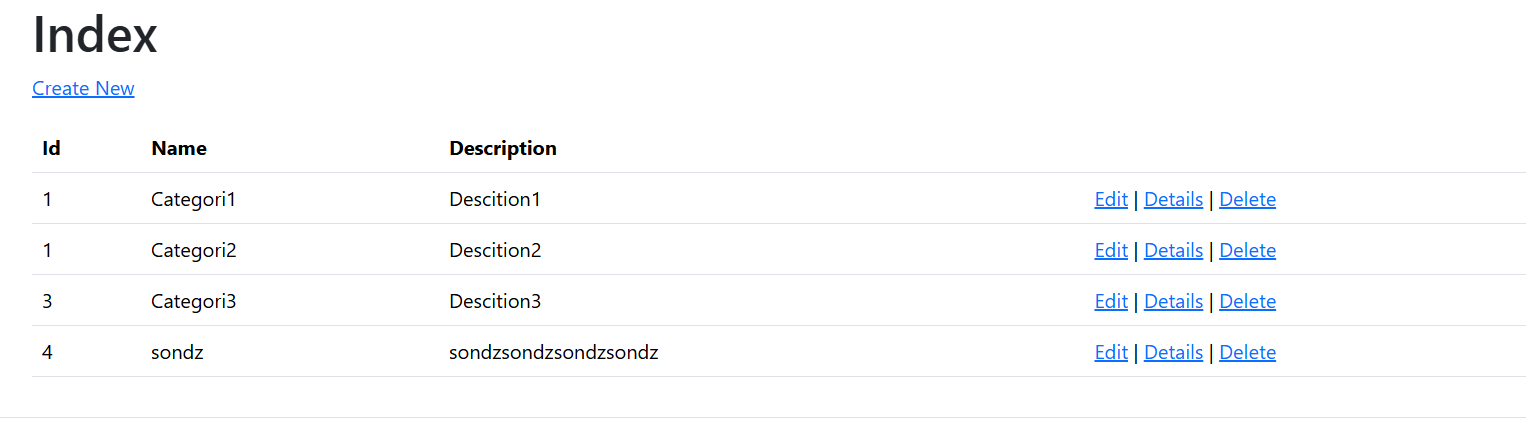
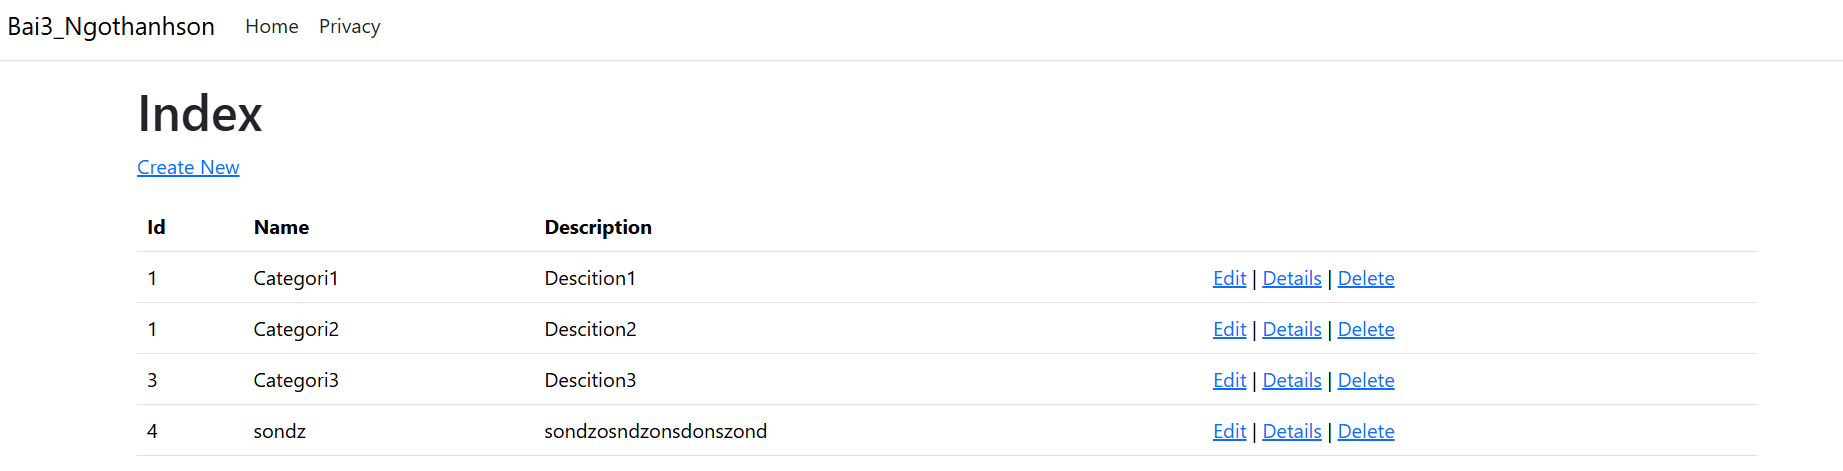
updated create img

diff --git a/Bai3-Ngothanhson/obj/Debug/net10.0/Bai3-Ngothanhson.AssemblyInfo.cs b/Bai3-Ngothanhson/obj/Debug/net10.0/Bai3-Ngothanhson.AssemblyInfo.cs
@@ -1,6 +1,7 @@
 //------------------------------------------------------------------------------
 // <auto-generated>
 //     This code was generated by a tool.
+//     Runtime Version:4.0.30319.42000
 //
 //     Changes to this file may cause incorrect behavior and will be lost if
 //     the code is regenerated.
@@ -13,7 +14,7 @@ using System.Reflection;
 [assembly: System.Reflection.AssemblyCompanyAttribute("Bai3-Ngothanhson")]
 [assembly: System.Reflection.AssemblyConfigurationAttribute("Debug")]
 [assembly: System.Reflection.AssemblyFileVersionAttribute("1.0.0.0")]
-[assembly: System.Reflection.AssemblyInformationalVersionAttribute("1.0.0+12f130fa6f212ff7fdab706524602682eceba853")]
+[assembly: System.Reflection.AssemblyInformationalVersionAttribute("1.0.0+1fcd17c7c581cb8a0ab1fe97a7eac1216fe90c93")]
 [assembly: System.Reflection.AssemblyProductAttribute("Bai3-Ngothanhson")]
 [assembly: System.Reflection.AssemblyTitleAttribute("Bai3-Ngothanhson")]
 [assembly: System.Reflection.AssemblyVersionAttribute("1.0.0.0")]
